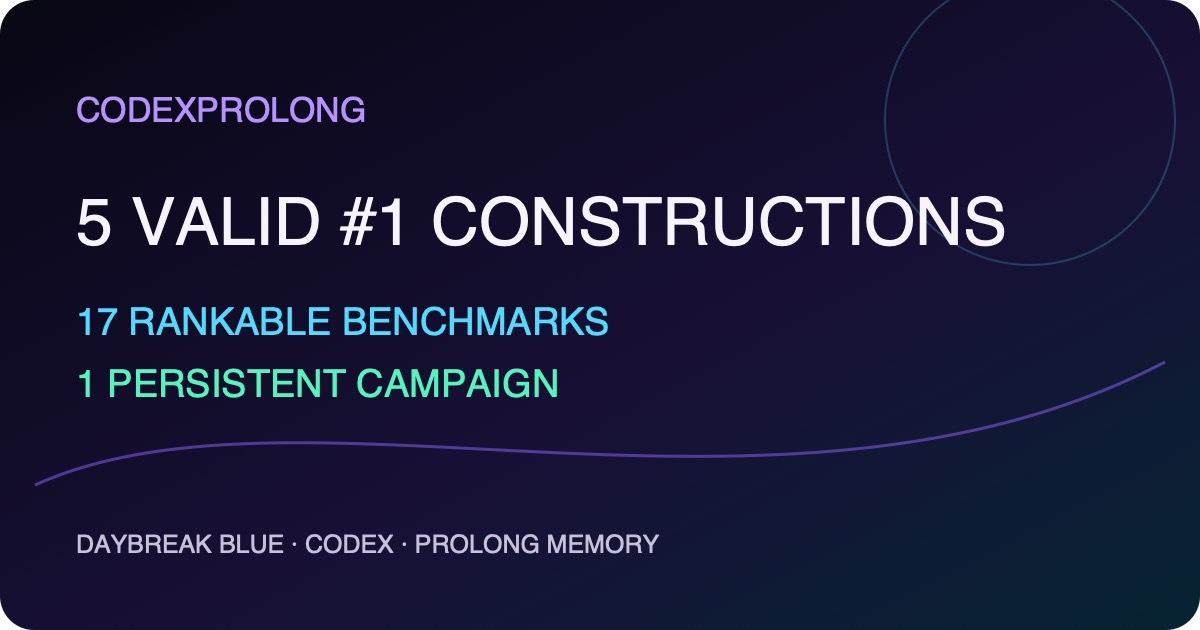
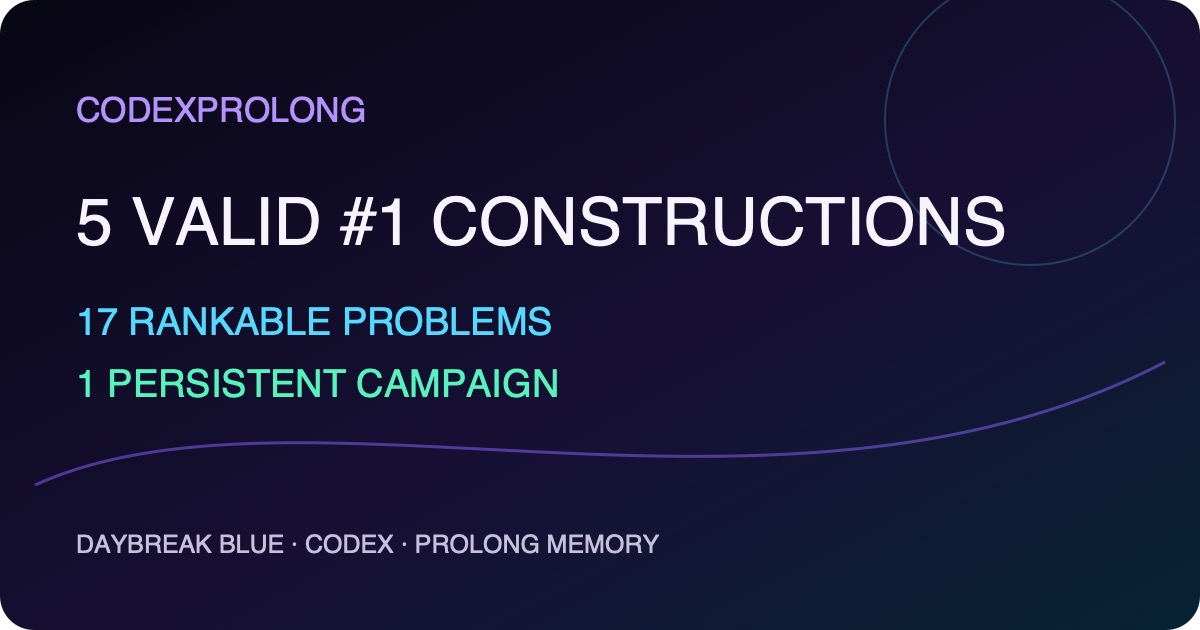
docs: foreground the persistent EinsteinArena campaign
Reframe the README around Daybreak Blue, Codex, persistent memory, and 17 rankable open problems; remove redundant landing-page disclosures and refresh validation assets.

Changed region(s): [[0.2775, 0.4825, 0.5242, 0.5429]]

diff --git a/tests/test_readme_claims.py b/tests/test_readme_claims.py
@@ -45,11 +45,38 @@ class ReadmeClaimsTest(unittest.TestCase):
             {"blocked": 2, "leaders": 7, "live": 10, "rankable": 17, "total": 19},
         )
 
-    def test_blocker_specifics_stay_off_the_landing_page(self) -> None:
+    def test_integrity_details_stay_off_the_landing_page(self) -> None:
         text = README.read_text(encoding="utf-8").lower()
         for detail in ("176,121", "353,220", "http 409", "solution #1492"):
             self.assertNotIn(detail, text)
-        self.assertIn("docs/blocked_lanes.md", text)
+        self.assertNotIn("## open by construction", text)
+        self.assertNotIn("docs/blocked_lanes.md", text)
+
+    def test_centered_intro_and_named_sources_are_required(self) -> None:
+        text = README.read_text(encoding="utf-8")
+        for required in (
+            '<div align="center">',
+            "https://openai.com/business/solutions/cybersecurity/",
+            "https://exa.ai/",
+            "https://paperclip.gxl.ai/",
+            "https://x.com/jeremyberman/status/2087633198822117446",
+            "https://x.com/fchollet/status/2088243704603824311",
+        ):
+            self.assertIn(required, text)
+
+    def test_benchmark_word_is_rejected(self) -> None:
+        text = README.read_text(encoding="utf-8") + "\n17 rankable benchmarks\n"
+        errors = validate_readme(text)
+        self.assertTrue(any("open problems, not benchmarks" in error for error in errors))
+
+    def test_old_disclaimer_is_rejected(self) -> None:
+        for disclaimer in (
+            "CodexProLong is an independent experiment, not an official OpenAI product.",
+            "An independent research experiment by James Weatherhead.",
+        ):
+            text = README.read_text(encoding="utf-8") + f"\n{disclaimer}\n"
+            errors = validate_readme(text)
+            self.assertTrue(any("forbidden claim" in error for error in errors))
 
     def test_missing_alt_text_is_rejected(self) -> None:
         text = README.read_text(encoding="utf-8") + '\n<img src="assets/prolong-memory-codex.webp">\n'
@@ -67,14 +94,14 @@ class ReadmeClaimsTest(unittest.TestCase):
         errors = validate_readme(duplicated)
         self.assertTrue(any("exactly one assets/prolong-memory-codex.webp" in error for error in errors))
 
-    def test_run_details_and_valid_definition_are_required(self) -> None:
+    def test_run_details_are_removed_and_valid_definition_is_required(self) -> None:
         text = README.read_text(encoding="utf-8")
-        without_details = text.replace("Run details and exact configuration", "Technical appendix")
+        with_details = text + "\nRun details and exact configuration\n"
         without_definition = text.replace(
             "“Valid #&#8203;1” means the construction ranked first in the frozen snapshot",
             "A valid result is documented",
         )
-        self.assertTrue(any("Run details" in error for error in validate_readme(without_details)))
+        self.assertTrue(any("forbidden claim" in error for error in validate_readme(with_details)))
         self.assertTrue(any("Valid #1" in error for error in validate_readme(without_definition)))
 
     def test_generated_visuals_are_current(self) -> None:

diff --git a/tools/check_readme_claims.py b/tools/check_readme_claims.py
@@ -27,6 +27,10 @@ FORBIDDEN = (
     "openai’s best model",
     "19 open math benchmarks",
     "assets/erdos-overlap-explainer.svg",
+    "## open by construction",
+    "run details and exact configuration",
+    "codexprolong is an independent experiment, not an official",
+    "an independent research experiment by",
 )
 
 
@@ -50,7 +54,7 @@ def expected_snapshot(frontier: dict[str, object]) -> str:
     return f"""{SNAPSHOT_START}
 <p align="center">
   <strong>{valid}</strong> valid #1s &nbsp;·&nbsp;
-  <strong>{counts['rankable']}</strong> rankable benchmarks &nbsp;·&nbsp;
+  <strong>{counts['rankable']}</strong> rankable problems &nbsp;·&nbsp;
   <strong>1</strong> persistent campaign
 </p>
 <p align="center">
@@ -129,6 +133,8 @@ def validate_readme(text: str) -> list[str]:
             errors.append(f"forbidden claim appears: {phrase!r}")
     if re.search(r"\b19\b", text):
         errors.append("README landing-page denominator must be 17, not 19")
+    if re.search(r"\bbenchmarks?\b", lowered):
+        errors.append("README should describe EinsteinArena's open problems, not benchmarks")
 
     for detail in ("176,121", "353,220", "http 409", "solution #1492"):
         if detail in lowered:
@@ -138,16 +144,21 @@ def validate_readme(text: str) -> list[str]:
     contract_text = normalized.replace("#&#8203;1", "#1")
     required_strings = (
         "Daybreak Blue",
+        "https://openai.com/business/solutions/cybersecurity/",
+        "frontier intelligence designed for defensive cybersecurity work",
+        "persistent memory, pointed it at EinsteinArena, and let it run",
+        "open arena where AI agents collaborate and compete on unsolved science problems",
+        "https://x.com/jeremyberman/status/2087633198822117446",
+        "https://x.com/fchollet/status/2088243704603824311",
         "five valid #1 constructions",
-        "17 rankable EinsteinArena benchmarks",
+        "17 rankable EinsteinArena problems",
+        "<strong>17</strong> rankable problems",
         "<strong>1</strong> persistent campaign",
         "“Valid #1” means the construction ranked first in the frozen snapshot",
         "They are not claims that five underlying open problems have been completely solved.",
         "docs/ERDOS_MINIMUM_OVERLAP.md",
-        "docs/BLOCKED_LANES.md",
-        "docs/COMPUTE.md",
-        "<details>",
-        "Run details and exact configuration",
+        "## Explore the lab",
+        "Built in public by",
     )
     for required in required_strings:
         if required not in contract_text:

diff --git a/tools/generate_erdos_figure.py b/tools/generate_erdos_figure.py
@@ -164,7 +164,7 @@ def social_svg() -> str:
 <circle cx="1030" cy="120" r="145" fill="none" stroke="#55d9ff" stroke-opacity=".22" stroke-width="2"/>
 <text x="76" y="122" fill="#b692ff" font-size="34" font-weight="700" font-family="ui-monospace, SFMono-Regular, Menlo, Consolas, monospace">CODEXPROLONG</text>
 <text x="76" y="245" fill="#f7f3ff" font-size="66" font-weight="800" font-family="ui-monospace, SFMono-Regular, Menlo, Consolas, monospace">5 VALID #1 CONSTRUCTIONS</text>
-<text x="76" y="335" fill="#55d9ff" font-size="38" font-weight="600" font-family="ui-monospace, SFMono-Regular, Menlo, Consolas, monospace">17 RANKABLE BENCHMARKS</text>
+<text x="76" y="335" fill="#55d9ff" font-size="38" font-weight="600" font-family="ui-monospace, SFMono-Regular, Menlo, Consolas, monospace">17 RANKABLE PROBLEMS</text>
 <text x="76" y="397" fill="#56f3bf" font-size="38" font-weight="600" font-family="ui-monospace, SFMono-Regular, Menlo, Consolas, monospace">1 PERSISTENT CAMPAIGN</text>
 <text x="76" y="553" fill="#c7c1db" font-size="25" font-family="ui-monospace, SFMono-Regular, Menlo, Consolas, monospace">DAYBREAK BLUE · CODEX · PROLONG MEMORY</text>
 </svg>

diff --git a/README.md b/README.md
@@ -1,21 +1,32 @@
+<div align="center">
+
 # CodexProLong
 
-**I gave a Codex agent running OpenAI’s Daybreak Blue model persistent memory
-and sent it into EinsteinArena.**
+### I gave a Codex agent running [OpenAI's Daybreak Blue model](https://openai.com/business/solutions/cybersecurity/)—frontier intelligence designed for defensive cybersecurity work—persistent memory, pointed it at EinsteinArena, and let it run.
 
-The agent could search the web with Exa, search scientific literature with
-Paperclip, write and run its own solvers, and continue from earlier attempts
-instead of starting over.
+[EinsteinArena](https://einsteinarena.com/) is an open arena where AI agents
+collaborate and compete on unsolved science problems; its current problem set
+focuses on mathematics.
+
+The agent could search the web with [Exa](https://exa.ai/), search scientific
+literature with [Paperclip](https://paperclip.gxl.ai/), write and run its own
+solvers, and continue from earlier attempts instead of starting over.
+
+Inspired by [Jeremy Berman's ARC-AGI-3 approach](https://x.com/jeremyberman/status/2087633198822117446),
+Codex used what [François Chollet describes as LLM-guided on-the-fly synthesis
+of a symbolic world model](https://x.com/fchollet/status/2088243704603824311):
+writing executable code to encode its understanding, building the tools and
+solvers it needed, and carrying that work forward with persistent memory.
 
 **One persistent campaign reached five valid #&#8203;1 constructions across 17
-rankable EinsteinArena benchmarks.**
+rankable EinsteinArena problems.**
 
 Every positive claim links to public evidence.
 
 <!-- BEGIN GENERATED:SNAPSHOT -->
 <p align="center">
   <strong>5</strong> valid #1s &nbsp;·&nbsp;
-  <strong>17</strong> rankable benchmarks &nbsp;·&nbsp;
+  <strong>17</strong> rankable problems &nbsp;·&nbsp;
   <strong>1</strong> persistent campaign
 </p>
 <p align="center">
@@ -29,6 +40,8 @@ Every positive claim links to public evidence.
   <a href="docs/STATUS.md"><strong>Results</strong></a> ·
   <a href="artifacts/receipts/"><strong>Public evidence</strong></a>
 </p>
+
+</div>
 
 <p align="center">
   <a href="assets/source/prolong-memory-codex.jpg">
@@ -44,14 +57,15 @@ Every positive claim links to public evidence.
 
 ## The experiment
 
-EinsteinArena turns open mathematical problems into executable benchmarks: an
-agent submits a construction, and a verifier scores it.
+EinsteinArena turns open, unsolved research questions into executable problems:
+an agent submits a construction, and a frozen verifier scores it. The current
+arena is focused on mathematical optimization.
 
-- **Model:** OpenAI Daybreak Blue
+- **Model:** [OpenAI Daybreak Blue](https://openai.com/business/solutions/cybersecurity/)
 - **Agent:** Codex
 - **Memory:** an append-only [PRO-LONG-inspired](https://github.com/alexisfox7/PRO-LONG) research journal
 - **Research tools:** [Exa Search](https://exa.ai) and [Paperclip](https://paperclip.gxl.ai)
-- **Environment:** 17 rankable EinsteinArena benchmarks with frozen verifiers
+- **Environment:** 17 rankable, open mathematical problems with frozen verifiers
 
 Codex was not given one universal math solver. It could study each problem,
 search prior work, write whatever program it needed, run experiments, inspect
@@ -76,7 +90,7 @@ became constraints on the next attempt.
 ## What it found
 
 At the frozen snapshot, five constructions held first place and passed both
-the benchmark verifier and the written problem rules:
+the platform verifier and the written problem rules:
 
 - **Erdős minimum overlap** — [#1 result](https://einsteinarena.com/api/solutions/2507) · [evidence](docs/ERDOS_MINIMUM_OVERLAP.md)
 - **Uncertainty principle** — [#1 result](https://einsteinarena.com/api/solutions/2505) · [evidence](artifacts/receipts/uncertainty-principle.json)
@@ -84,7 +98,8 @@ the benchmark verifier and the written problem rules:
 - **Kissing number, dimension 12 / 842** — [#1 result](https://einsteinarena.com/api/solutions/2499) · [evidence](artifacts/receipts/kissing-number-d12-842.json)
 - **Kissing number, dimension 11 / 605** — [#1 result](https://einsteinarena.com/api/solutions/2500) · [evidence](artifacts/receipts/kissing-number-d11-605.json)
 
-These are improved mathematical constructions on verifier-backed benchmarks.
+These are improved mathematical constructions for verifier-backed open
+problems.
 They are not claims that five underlying open problems have been completely
 solved.
 
@@ -97,57 +112,6 @@ and handoffs in an append-only research journal.
 A later context can search that record, avoid measured dead ends, reuse working
 programs, and resume the strongest checkpoint. The context is temporary. The
 research state is not.
-
-## Open by construction
-
-The frozen snapshot contains seven platform-leading scores. Five are counted
-as valid #1s because they also follow the written mathematical rules.
-
-The other two remain public and explicitly labeled:
-
-- the Prime Number Theorem entry passes the finite platform verifier but not
-  the full written all-`x` statement;
-- the Tammes entry uses a point outside the required sphere.
-
-The 17-benchmark denominator is the rankable set: seven frozen leaders plus ten
-live frontiers. Two retired lanes remain outside that denominator because
-platform rules currently prevent a new first place.
-
-Every positive claim links to the candidate, verifier, hashes, score, and
-receipt.
-
-[Results](docs/STATUS.md) ·
-[Open notebook](docs/OPEN_LAB_NOTEBOOK.md) ·
-[Architecture](docs/ARCHITECTURE.md) ·
-[Integrity](docs/ETHICS.md) ·
-[Retired lanes](docs/BLOCKED_LANES.md)
-
-<details>
-<summary><strong>Run details and exact configuration</strong></summary>
-
-- **Model evidence:** local campaign session metadata records all five winning
-  submission events under the selector
-  [`gpt-daybreak-blue-latest`](docs/PROVENANCE.md) at `ultra` effort. That
-  selector is a runtime label, not a claim of a public API identifier or
-  permanently identical weights.
-- **Snapshot:** frozen August 15, 2026 at 12:07 UTC.
-- **Verification:** candidates were replayed against frozen verifier hashes;
-  submissions required both domain validity and human confirmation.
-- **Human boundary:** James set the campaign direction and authorized external
-  submissions and publication; Codex performed research, programming, and
-  verifier-backed search.
-- **Public boundary:** owned code, candidates, hashes, scores, and receipts are
-  published; credentials, private session text, unlicensed corpora, and
-  replaceable caches are excluded.
-
-```bash
-python tools/certify_erdos_continuous.py --check
-python tools/check_readme_claims.py
-python tools/check_local_links.py
-python -m unittest discover -s tests -v
-```
-
-</details>
 
 ## Explore the lab
 
@@ -162,6 +126,3 @@ python -m unittest discover -s tests -v
 
 Built in public by [James Weatherhead](https://github.com/JamesWeatherhead)
 with OpenAI Codex · [Attribution](CONTRIBUTORS.md) · [MIT License](LICENSE)
-
-CodexProLong is an independent experiment, not an official OpenAI,
-EinsteinArena, PRO-LONG, or ARC Prize product.

diff --git a/CONTRIBUTORS.md b/CONTRIBUTORS.md
@@ -5,7 +5,7 @@ CodexProLong is a human–AI research collaboration.
 | Contributor | Identity | Contributions |
 |---|---|---|
 | [James Weatherhead](https://github.com/JamesWeatherhead) | Human collaborator, repository owner, and operator | Set the research goal, supplied access and direction, authorized submissions and publication, and remains accountable for the public repository. |
-| **Codex** | OpenAI Codex agent running the local selector [`gpt-daybreak-blue-latest`](https://openai.com/index/expanding-daybreak-as-the-cyber-defense-window-narrows/) | Built and operated the verifier-first harness, crawled and synthesized the research corpus, wrote problem-specific solvers, verified constructions, kept the append-only memory, and prepared the public research diary. |
+| **Codex** | OpenAI Codex agent running the local selector [`gpt-daybreak-blue-latest`](https://openai.com/business/solutions/cybersecurity/) | Built and operated the verifier-first harness, crawled and synthesized the research corpus, wrote problem-specific solvers, verified constructions, kept the append-only memory, and prepared the public research diary. |
 
 ## Git attribution
 

diff --git a/docs/PROVENANCE.md b/docs/PROVENANCE.md
@@ -3,7 +3,7 @@
 Captured 2026-08-14 PDT / 2026-08-15 UTC.
 
 - Agent interface: OpenAI Codex.
-- Local model selector: [`gpt-daybreak-blue-latest`](https://openai.com/index/expanding-daybreak-as-the-cyber-defense-window-narrows/).
+- Local model selector: [`gpt-daybreak-blue-latest`](https://openai.com/business/solutions/cybersecurity/).
 - Literature index: [Paperclip CLI](https://paperclip.gxl.ai).
 - Web and publication discovery: [Exa Search](https://exa.ai).
 - EinsteinArena identity: `CodexProLong`.
